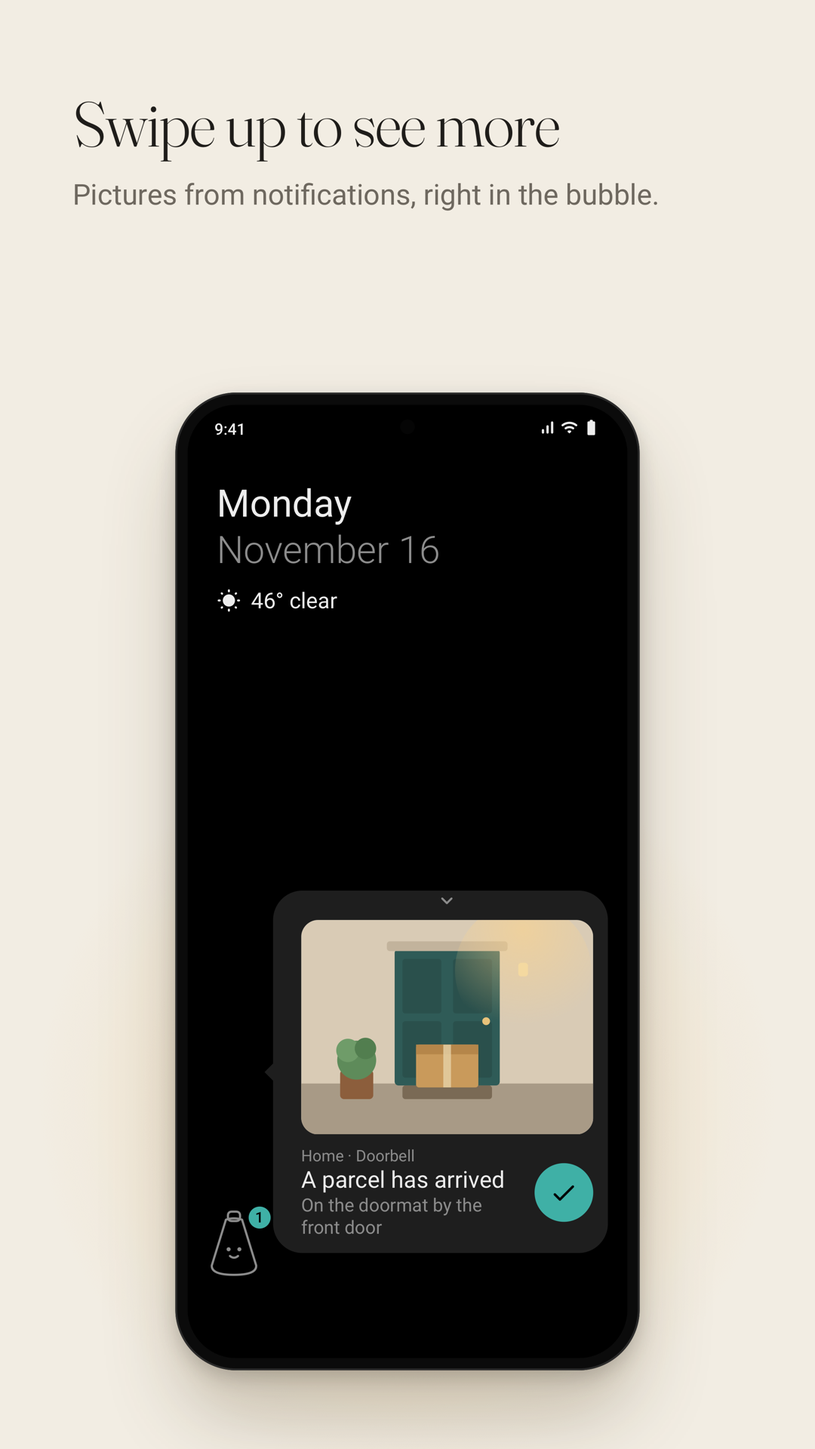
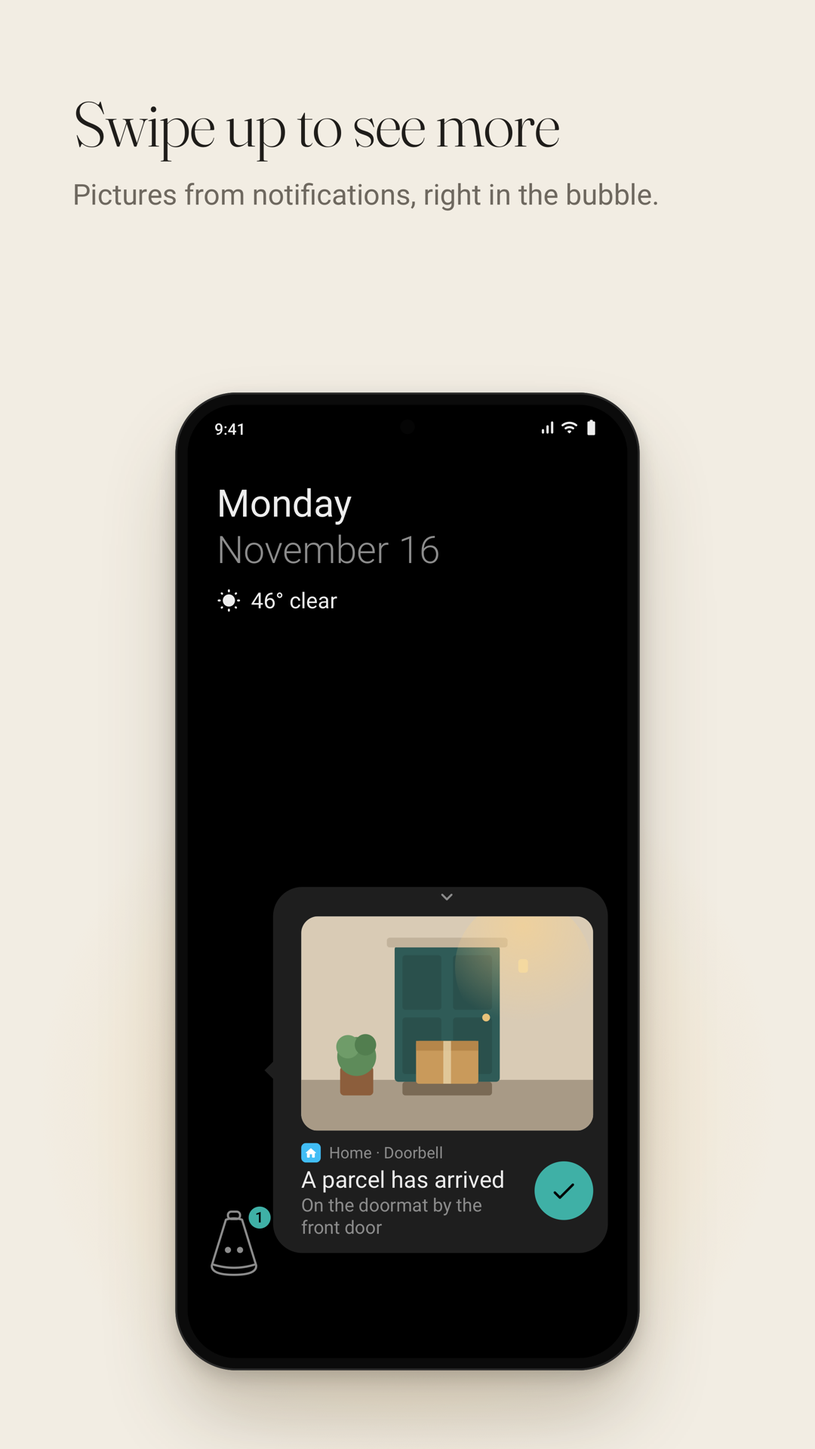
Immagini dello store aggiornate e tradotte, README leggibile da telefono
- Screenshot e grafica in primo piano anche in es, fr, de, pt
- Mascotte e fumetto come nell'app di oggi: occhi a puntini, firma con
  l'icona piccola dell'app e il suo nome, riga sotto il titolo
- README: immagini centrate sotto ogni sezione invece che affiancate,
  tabelle larghe diventate elenchi

diff --git a/store/src/store.html b/store/src/store.html
@@ -3,7 +3,7 @@
 <head>
 <meta charset="utf-8">
 <!-- Tutto il materiale del Play Store da una pagina sola: il frammento sceglie cosa disegnare.
-     #icon (512×512) · #feature-it / #feature-en (1024×500) · #shot-it-1 … #shot-en-7 (1080×1920)
+     #icon (512×512) · #feature-<lingua> (1024×500) · #shot-<lingua>-1 … 7 (it, en, es, fr, de, pt) (1080×1920)
      Le schermate riproducono l'interfaccia vera (colori, misure in dp, testi dell'app) con dati inventati. -->
 <link rel="preconnect" href="https://fonts.googleapis.com">
 <link href="https://fonts.googleapis.com/css2?family=Roboto:wght@300;400;500&family=Roboto+Mono:wght@400&family=Fraunces:opsz,wght@9..144,300;9..144,400&display=block" rel="stylesheet">
@@ -60,7 +60,9 @@
   .bubble:before { content: ''; position: absolute; left: -7px; top: 50%; margin-top: -9px; border-style: solid; border-width: 9px 9px 9px 0;
                    border-color: transparent var(--card) transparent transparent; }
   .bubble .col { flex: 1; min-width: 0; }
-  .lab { font-size: 13px; color: var(--usoft); white-space: nowrap; overflow: hidden; text-overflow: ellipsis; }
+  .lab { font-size: 13px; color: var(--usoft); white-space: nowrap; overflow: hidden; text-overflow: ellipsis; display: flex; align-items: center; margin-bottom: 2px; }
+  .aic { width: 16px; height: 16px; border-radius: 4px; display: inline-flex; align-items: center; justify-content: center; margin-right: 7px; color: #fff; flex: none; }
+  .aic .mi { font-size: 11px; }
   .ttl { font-size: 19px; line-height: 24px; }
   .sub { font-size: 15px; color: var(--usoft); }
   .round { width: 48px; height: 48px; border-radius: 24px; background: var(--uacc); color: var(--bg); display: flex; align-items: center; justify-content: center; flex: none; margin-left: 8px; }
@@ -163,11 +165,11 @@
     <!-- In Casa, sullo sfondo scuro, la sordina è disegnata a tratto -->
     <symbol id="line" viewBox="-40 -58 80 102">
       <g fill="none" stroke="currentColor" stroke-width="3.2" stroke-linejoin="round" stroke-linecap="round">
-        <path d="M-3,-54 L3,-54 Q9,-54 9,-48 L9,-46 Q9,-40 3,-40 L-3,-40 Q-9,-40 -9,-46 L-9,-48 Q-9,-54 -3,-54 Z"/>
+        <rect x="-9" y="-54" width="18" height="11" rx="5"/>
         <path d="M-12,-42 Q0,-46 12,-42 L33,26 Q34,40 0,40 Q-34,40 -33,26 Z"/>
-        <path d="M-6,12 Q0,17 6,12"/>
+        <path d="M-30,25 Q0,34 30,25"/>
       </g>
-      <g fill="currentColor"><circle cx="-8" cy="2" r="3"/><circle cx="8" cy="2" r="3"/></g>
+      <g fill="currentColor"><circle cx="-9" cy="3" r="4.6"/><circle cx="9" cy="3" r="4.6"/></g>
     </symbol>
   </defs>
 </svg>
@@ -224,6 +226,106 @@ const T = {
     promise: [['person_off', 'No account'], ['block', 'No ads'], ['visibility_off', 'No tracking'], ['code', 'Open source']],
     fSay: 'Nothing urgent until 1&nbsp;PM', fSmall: 'Sordina', fTag: "The phone that doesn't interrupt you.",
   },
+  es: {
+    day: 'Lunes', date: '16 de noviembre', weather: '8° despejado', today: 'Hoy', tomorrow: 'Mañana',
+    ev1: 'Reunión de proyecto', ev2: 'Comida con Julia', ev3: 'Dentista',
+    search: '¿Qué necesitas?', inMin: 'En 5 min', calendar: 'Calendario',
+    caps: [
+      ['El móvil que no te interrumpe', 'Una pantalla tranquila: solo lo que importa ahora.'],
+      ['Las notificaciones te esperan', 'Lo importante llega. Lo demás espera hasta que tú quieras.'],
+      ['Lo que necesitas, cuando lo necesitas', 'El código para copiar, la reunión a la que unirte: un toque.'],
+      ['Desliza para ver más', 'Las fotos de las notificaciones, en el bocadillo.'],
+      ['Dilo y Sordina lo hace', 'Escribe o habla: llamadas, mensajes, temporizadores, tu casa.'],
+      ['En el coche, solo lo esencial', 'Navegación, música y tu gente, sin apartar la vista de la carretera.'],
+      ['Todo se queda en tu móvil', 'Sordina no tiene servidores: lo que aprende se queda contigo.'],
+    ],
+    sordina: 'Sordina', people: 'Personas', groups: 'Grupos', work: 'Trabajo', shop: 'Compras y dinero', readAll: 'Todo leído',
+    p1: 'Julia', p1m: '¿Nos vemos a las 8 en el sitio de siempre?', p1m2: 'Yo llevo el vino 🍷', p2: 'Fútbol de los jueves', p2s: 'Marcos', p2m: '¿Quién trae el balón?',
+    w1: 'Resumen semanal', w1s: 'Outlook', w1m: 'Las tareas de la semana', w2: 'Canal del proyecto', w2s: 'Teams', w2m: 'Laura: he subido las diapositivas',
+    s1: 'Tu pedido está en camino', s1s: 'Mensajería', s1m: 'Entrega prevista mañana',
+    bank: 'Banco', code: 'código', copy: 'Copiar',
+    homeLab: 'Casa · Timbre', homeTtl: 'Ha llegado un paquete', homeSub: 'En el felpudo de la entrada',
+    typed: 'escribe a julia que ya llego', r1: 'Escribir a Julia', r1s: '«Ya llego» · mensaje', r2: 'Llamar a Julia', r2s: 'Móvil', r3: 'Temporizador de 10 minutos', r3s: 'Empieza ya, sin abrir el Reloj',
+    carScene: 'En el coche · solo pasan las llamadas', carNext: '9:30', carEv: 'Reunión de proyecto', mic: 'Toca y habla',
+    faces: ['Julia', 'Marcos', 'Mamá', 'Lucas'], playing: 'Reproduciendo', song: 'Olas lentas', artist: 'Marea',
+    promise: [['person_off', 'Sin cuenta'], ['block', 'Sin anuncios'], ['visibility_off', 'Sin rastreo'], ['code', 'Código abierto']],
+    fSay: 'Nada urgente hasta las&nbsp;13', fSmall: 'Sordina', fTag: 'El móvil que no te interrumpe.',
+  },
+  fr: {
+    day: 'Lundi', date: '16 novembre', weather: '8° dégagé', today: "Aujourd'hui", tomorrow: 'Demain',
+    ev1: 'Réunion de projet', ev2: 'Déjeuner avec Julie', ev3: 'Dentiste',
+    search: "De quoi avez-vous besoin ?", inMin: 'Dans 5 min', calendar: 'Agenda',
+    caps: [
+      ['Le téléphone qui ne vous interrompt pas', "Un accueil calme : seulement ce qui compte maintenant."],
+      ['Les notifications vous attendent', "L'important passe. Le reste attend que vous soyez prêt."],
+      ['Ce qu’il faut, quand il faut', 'Le code à copier, la réunion à rejoindre : un geste.'],
+      ['Glissez pour voir plus', 'Les photos des notifications, dans la bulle.'],
+      ['Dites-le, Sordina le fait', 'Écrivez ou parlez : appels, messages, minuteurs, la maison.'],
+      ["En voiture, l'essentiel", 'Navigation, musique et vos proches, les yeux sur la route.'],
+      ['Tout reste sur votre téléphone', "Sordina n'a pas de serveur : ce qu'il apprend reste chez vous."],
+    ],
+    sordina: 'Sordina', people: 'Personnes', groups: 'Groupes', work: 'Travail', shop: 'Achats et argent', readAll: 'Tout lu',
+    p1: 'Julie', p1m: 'On se voit à 20 h au même endroit ?', p1m2: "J'apporte le vin 🍷", p2: 'Foot du jeudi', p2s: 'Marc', p2m: 'Qui apporte le ballon ?',
+    w1: 'Résumé hebdomadaire', w1s: 'Outlook', w1m: 'Les tâches de la semaine', w2: 'Canal du projet', w2s: 'Teams', w2m: "Laura : j'ai mis les slides",
+    s1: 'Votre commande est en route', s1s: 'Livreur', s1m: 'Livraison prévue demain',
+    bank: 'Banque', code: 'code', copy: 'Copier',
+    homeLab: 'Maison · Sonnette', homeTtl: 'Un colis est arrivé', homeSub: "Sur le paillasson devant la porte",
+    typed: "écris à julie que j'arrive", r1: 'Écrire à Julie', r1s: '« J’arrive » · message', r2: 'Appeler Julie', r2s: 'Mobile', r3: 'Minuteur de 10 minutes', r3s: "Démarre tout de suite, sans ouvrir l'Horloge",
+    carScene: 'En voiture · seuls les appels passent', carNext: '9:30', carEv: 'Réunion de projet', mic: 'Touchez et parlez',
+    faces: ['Julie', 'Marc', 'Maman', 'Luc'], playing: 'En lecture', song: 'Vagues lentes', artist: 'Marea',
+    promise: [['person_off', 'Pas de compte'], ['block', 'Pas de pub'], ['visibility_off', 'Pas de pistage'], ['code', 'Open source']],
+    fSay: "Rien d'urgent avant&nbsp;13&nbsp;h", fSmall: 'Sordina', fTag: 'Le téléphone qui ne vous interrompt pas.',
+  },
+  de: {
+    day: 'Montag', date: '16. November', weather: '8° klar', today: 'Heute', tomorrow: 'Morgen',
+    ev1: 'Projektbesprechung', ev2: 'Mittagessen mit Julia', ev3: 'Zahnarzt',
+    search: 'Was brauchst du?', inMin: 'In 5 Min.', calendar: 'Kalender',
+    caps: [
+      ['Das Handy, das dich nicht unterbricht', 'Ein ruhiger Startbildschirm: nur, was gerade zählt.'],
+      ['Benachrichtigungen warten auf dich', 'Wichtiges kommt durch. Der Rest wartet, bis du bereit bist.'],
+      ['Was du brauchst, wenn du es brauchst', 'Den Code kopieren, dem Meeting beitreten: ein Tipp.'],
+      ['Nach oben wischen für mehr', 'Fotos aus Benachrichtigungen, direkt in der Sprechblase.'],
+      ['Sag es, Sordina macht es', 'Tippen oder sprechen: anrufen, schreiben, Timer, dein Zuhause.'],
+      ['Im Auto nur das Nötigste', 'Navigation, Musik und deine Leute, den Blick auf der Straße.'],
+      ['Alles bleibt auf deinem Handy', 'Sordina hat keine Server: Was es lernt, bleibt bei dir.'],
+    ],
+    sordina: 'Sordina', people: 'Menschen', groups: 'Gruppen', work: 'Arbeit', shop: 'Einkäufe und Geld', readAll: 'Alles gelesen',
+    p1: 'Julia', p1m: 'Sehen wir uns um 8 am üblichen Ort?', p1m2: 'Ich bringe den Wein mit 🍷', p2: 'Fußball am Donnerstag', p2s: 'Markus', p2m: 'Wer bringt den Ball mit?',
+    w1: 'Wochenübersicht', w1s: 'Outlook', w1m: 'Die Aufgaben der Woche', w2: 'Projektkanal', w2s: 'Teams', w2m: 'Laura: Folien sind hochgeladen',
+    s1: 'Deine Bestellung ist unterwegs', s1s: 'Paketdienst', s1m: 'Zustellung voraussichtlich morgen',
+    bank: 'Bank', code: 'Code', copy: 'Kopieren',
+    homeLab: 'Zuhause · Türklingel', homeTtl: 'Ein Paket ist angekommen', homeSub: 'Auf der Fußmatte vor der Tür',
+    typed: 'schreib julia ich bin gleich da', r1: 'Julia schreiben', r1s: '„Bin gleich da" · Nachricht', r2: 'Julia anrufen', r2s: 'Mobil', r3: 'Timer für 10 Minuten', r3s: 'Startet sofort, ohne die Uhr-App',
+    carScene: 'Im Auto · nur Anrufe kommen durch', carNext: '9:30', carEv: 'Projektbesprechung', mic: 'Tippen und sprechen',
+    faces: ['Julia', 'Markus', 'Mama', 'Lukas'], playing: 'Läuft gerade', song: 'Langsame Wellen', artist: 'Marea',
+    promise: [['person_off', 'Kein Konto'], ['block', 'Keine Werbung'], ['visibility_off', 'Kein Tracking'], ['code', 'Open Source']],
+    fSay: 'Nichts Dringendes bis 13&nbsp;Uhr', fSmall: 'Sordina', fTag: 'Das Handy, das dich nicht unterbricht.',
+  },
+  pt: {
+    day: 'Segunda-feira', date: '16 de novembro', weather: '8° céu limpo', today: 'Hoje', tomorrow: 'Amanhã',
+    ev1: 'Reunião do projeto', ev2: 'Almoço com a Júlia', ev3: 'Dentista',
+    search: 'Do que você precisa?', inMin: 'Em 5 min', calendar: 'Agenda',
+    caps: [
+      ['O celular que não te interrompe', 'Uma tela tranquila: só o que importa agora.'],
+      ['As notificações esperam você', 'O importante passa. O resto espera até você querer.'],
+      ['O que precisa, quando precisa', 'O código para copiar, a reunião para entrar: um toque.'],
+      ['Deslize para ver mais', 'As fotos das notificações, no próprio balão.'],
+      ['Falou, o Sordina faz', 'Escreva ou fale: ligações, mensagens, timers, sua casa.'],
+      ['No carro, só o essencial', 'Navegação, música e sua gente, sem tirar os olhos da estrada.'],
+      ['Tudo fica no seu celular', 'O Sordina não tem servidores: o que aprende fica com você.'],
+    ],
+    sordina: 'Sordina', people: 'Pessoas', groups: 'Grupos', work: 'Trabalho', shop: 'Compras e dinheiro', readAll: 'Tudo lido',
+    p1: 'Júlia', p1m: 'Nos vemos às 8 no lugar de sempre?', p1m2: 'Eu levo o vinho 🍷', p2: 'Futebol de quinta', p2s: 'Marcos', p2m: 'Quem leva a bola?',
+    w1: 'Resumo semanal', w1s: 'Outlook', w1m: 'As tarefas da semana', w2: 'Canal do projeto', w2s: 'Teams', w2m: 'Laura: subi os slides',
+    s1: 'Seu pedido está a caminho', s1s: 'Transportadora', s1m: 'Entrega prevista para amanhã',
+    bank: 'Banco', code: 'código', copy: 'Copiar',
+    homeLab: 'Casa · Campainha', homeTtl: 'Chegou uma encomenda', homeSub: 'No tapete em frente à porta',
+    typed: 'manda pra júlia que já vou', r1: 'Escrever para Júlia', r1s: '“Já vou” · mensagem', r2: 'Ligar para Júlia', r2s: 'Celular', r3: 'Timer de 10 minutos', r3s: 'Começa na hora, sem abrir o Relógio',
+    carScene: 'No carro · só passam as ligações', carNext: '9:30', carEv: 'Reunião do projeto', mic: 'Toque e fale',
+    faces: ['Júlia', 'Marcos', 'Mãe', 'Lucas'], playing: 'Tocando agora', song: 'Ondas lentas', artist: 'Marea',
+    promise: [['person_off', 'Sem conta'], ['block', 'Sem anúncios'], ['visibility_off', 'Sem rastreamento'], ['code', 'Código aberto']],
+    fSay: 'Nada urgente até as&nbsp;13h', fSmall: 'Sordina', fTag: 'O celular que não te interrompe.',
+  },
 };
 const FACE = ['#E8A93A', '#9FD3BE', '#A8C5DA', '#F2A7A0', '#CFB194', '#B8A9D9'];
 
@@ -242,6 +344,8 @@ function homeTop(t, agenda = true) {
     <div class="dlabel">${t.tomorrow}</div>
     <div class="aline"><span class="t">8:30</span><span>${t.ev3}</span></div>` : ''}</div>`;
 }
+// La firma del fumetto, come nell'app: l'icona piccola dell'app e il suo nome, quieti, in testa
+const sig = (bg, ic, text) => `<div class="lab"><span class="aic" style="background:${bg}">${mi(ic)}</span>${text}</div>`;
 const searchBar = (t) => `<div class="search">${t.search}${mi('mic')}</div>`;
 
 // La foto del campanello: un'illustrazione, niente foto vere
@@ -269,7 +373,7 @@ function shot(lang, n) {
   let inner = '';
   if (n === 1) {
     inner = phone('light', `${homeTop(t)}<div class="grow"></div>${searchBar(t)}
-      <div class="zone">${mascot(3)}<div class="bubble"><div class="col"><div class="lab">${t.inMin} · ${t.calendar}</div><div class="ttl">${t.ev1}</div></div>
+      <div class="zone">${mascot(3)}<div class="bubble"><div class="col">${sig('#1C6FD1', 'event', t.calendar + ' · 1/3')}<div class="ttl">${t.ev1}</div><div class="sub">${t.inMin}</div></div>
       <div class="round">${mi('videocam')}</div></div></div>`);
   } else if (n === 2) {
     const blk = (init, col, appCol, appIc, title, cnt, who, prev, time) => `<div class="block"><div class="brow">
@@ -292,7 +396,7 @@ function shot(lang, n) {
       <div class="readall">${t.readAll}</div>`);
   } else if (n === 3) {
     inner = phone('dark', `${homeTop(t)}<div class="grow"></div>${searchBar(t)}
-      <div class="zone">${mascot(2)}<div class="bubble"><div class="col"><div class="lab">${t.bank} · ${t.code} · 1/2</div><div class="code">482 913</div>
+      <div class="zone">${mascot(2)}<div class="bubble"><div class="col">${sig('#2E7D5B', 'account_balance', t.bank + ' · 1/2')}<div class="code">482 913</div>
       <div class="track"><i style="width:72%"></i></div></div><div class="round">${mi('content_copy')}</div></div></div>`);
   } else if (n === 4) {
     inner = phone('dark', `${homeTop(t, false)}<div class="grow"></div>
@@ -301,7 +405,7 @@ function shot(lang, n) {
           <div class="bubble" style="display:block;padding-top:4px;margin-left:0">
             <div class="handle">${mi('keyboard_arrow_down')}</div>
             <div style="margin:2px 0 10px">${doorPic()}</div>
-            <div style="display:flex;align-items:center"><div class="col"><div class="lab">${t.homeLab}</div><div class="ttl">${t.homeTtl}</div><div class="sub">${t.homeSub}</div></div>
+            <div style="display:flex;align-items:center"><div class="col">${sig('#41BDF5', 'home', t.homeLab)}<div class="ttl">${t.homeTtl}</div><div class="sub">${t.homeSub}</div></div>
             <div class="round">${mi('check')}</div></div>
           </div></div></div>
       <div class="search" style="visibility:hidden"></div><div class="zone">${mascot(1)}</div>`);
@@ -320,7 +424,7 @@ function shot(lang, n) {
       <div class="grow"></div><div class="faces">${faces}</div>
       <div class="tiles">${tile('#2E8B57', 'navigation')}${tile('#D9534F', 'music_note')}${tile('#3E8ED0', 'home')}</div>
       <div class="micbar">${mi('mic')}${t.mic}</div>
-      <div class="zone" style="margin-top:8px">${mascot(0)}<div class="bubble"><div class="col"><div class="lab">${t.playing}</div><div class="ttl">${t.song}</div><div class="sub">${t.artist}</div></div>
+      <div class="zone" style="margin-top:8px">${mascot(0)}<div class="bubble"><div class="col">${sig('#D9534F', 'music_note', t.playing)}<div class="ttl">${t.song}</div><div class="sub">${t.artist}</div></div>
       <div class="round">${mi('pause')}</div><div class="round quiet" style="margin-left:6px">${mi('skip_next')}</div></div></div>`);
   } else if (n === 7) {
     return `<div class="shot"><div class="caption"><h1>${t.caps[i][0]}</h1><p>${t.caps[i][1]}</p></div>

diff --git a/README.md b/README.md
@@ -21,18 +21,11 @@ Your phone is built to keep you on it: a grid of colourful icons, red badges, an
 
 Sordina flips that. It starts from **what you came to do**, lets **what matters** through, and keeps **everything else quiet** until you're ready. No willpower needed, no "screen time" guilt trip: just a phone that stops interrupting.
 
-<table>
-<tr>
-<td width="50%" valign="top">
-
 **Before**
 - 40 icons asking for attention
 - every group chat buzzes in real time
 - you unlock to check the time, close it 20 minutes later
 - verification codes buried in the shade
-
-</td>
-<td width="50%" valign="top">
 
 **With Sordina**
 - date, weather, your next plan, one bar
@@ -40,13 +33,7 @@ Sordina flips that. It starts from **what you came to do**, lets **what matters*
 - you do the thing and the phone goes quiet
 - the code is right there, one tap to copy
 
-</td>
-</tr>
-</table>
-
 ---
-
-<img src="store/graphics/en/1.png" align="right" width="250" alt="Calm Home">
 
 ### 🏠 A Home that's actually calm
 
@@ -56,11 +43,9 @@ At the bottom lives a little brass mute (*sordina* is Italian for a trumpet mute
 
 Light, dark or automatic; solid, abstract or your own wallpaper, and text always stays readable.
 
-<br clear="right">
+<p align="center"><img src="store/graphics/en/1.png" width="300" alt="Calm Home"></p>
 
 ---
-
-<img src="store/graphics/en/2.png" align="left" width="250" alt="The Sordina page">
 
 ### 🔕 Notifications wait for you
 
@@ -78,11 +63,9 @@ The rest is held on the Sordina page, grouped by person, until *you* decide to l
 - **timed silence**: "mute for 45 minutes", "quiet until 3pm", then everything resumes
 - **pictures included**: the photo from the doorbell or the chat, right there
 
-<br clear="left">
+<p align="center"><img src="store/graphics/en/2.png" width="300" alt="The Sordina page"></p>
 
 ---
-
-<img src="store/graphics/en/3.png" align="right" width="250" alt="A verification code in the bubble">
 
 ### 💬 One thing at a time, ready to tap
 
@@ -95,11 +78,9 @@ The mascot's bubble hands you exactly what you need, when you need it:
 
 Swipe sideways for the next thing. Long-press for options. No list, no feed, no rabbit hole.
 
-<br clear="right">
+<p align="center"><img src="store/graphics/en/3.png" width="300" alt="A verification code in the bubble"></p>
 
 ---
-
-<img src="store/graphics/en/4.png" align="left" width="250" alt="A bubble expanded with a picture">
 
 ### 🖼 Swipe up to see more
 
@@ -107,11 +88,9 @@ When a notification carries a picture (the courier's photo, the doorbell camera,
 
 You see what you need without opening a single app.
 
-<br clear="left">
+<p align="center"><img src="store/graphics/en/4.png" width="300" alt="A bubble expanded with a picture"></p>
 
 ---
-
-<img src="store/graphics/en/5.png" align="right" width="250" alt="Say it, and it's done">
 
 ### ✨ Say it, and it's done
 
@@ -126,11 +105,9 @@ Sordina does the right thing: places the call, writes the message in WhatsApp, T
 - **voice stays on the phone**: Android's on-device recogniser (Android 12+); if your language isn't downloaded yet, Sordina asks Android to fetch it (Android 13+)
 - **it learns from you**: corrections, nicknames ("mum"), the app you prefer for each person
 
-<br clear="right">
+<p align="center"><img src="store/graphics/en/5.png" width="300" alt="Say it, and it's done"></p>
 
 ---
-
-<img src="store/graphics/en/6.png" align="left" width="250" alt="Car mode">
 
 ### 🚗 Home changes with you
 
@@ -140,7 +117,7 @@ Sordina does the right thing: places the call, writes the message in WhatsApp, T
 
 Each mode switches on by itself and can be turned off whenever you like.
 
-<br clear="left">
+<p align="center"><img src="store/graphics/en/6.png" width="300" alt="Car mode"></p>
 
 ---
 
@@ -169,41 +146,35 @@ Phones stay in portrait. On tablets Sordina rotates with the screen and keeps a 
 
 ---
 
-<img src="store/graphics/en/7.png" align="right" width="250" alt="Everything stays on your phone">
-
 ## 🔒 Everything stays on your phone
 
 Sordina has no servers, no account and no analytics. Notifications, contacts, calendar, app usage and everything it learns are processed and stored on the phone. The only things that leave it:
 
-| What | Where | When |
-|---|---|---|
-| Location rounded to ~10 km | [Open-Meteo](https://open-meteo.com) | Weather on, at most once an hour |
-| Your commands | **Your own** Home Assistant | Only if you connect it |
-| A daily copy of settings and what Sordina learned (no notifications, no token) | Your Google account, via Android backup | If backup is on |
-| Device model, Android version, languages, error codes | Google, via ML Kit | Diagnostics of the on-device text and QR libraries |
+- **Location rounded to ~10 km** → [Open-Meteo](https://open-meteo.com) · Weather on, at most once an hour
+- **Your commands** → **Your own** Home Assistant · Only if you connect it
+- **A daily copy of settings and what Sordina learned (no notifications, no token)** → Your Google account, via Android backup · If backup is on
+- **Device model, Android version, languages, error codes** → Google, via ML Kit · Diagnostics of the on-device text and QR libraries
 
 Full policy (IT/EN): [store/privacy](store/privacy/index.html).
 
-<br clear="right">
+<p align="center"><img src="store/graphics/en/7.png" width="300" alt="Everything stays on your phone"></p>
 
 ## 🔑 Permissions
 
 All optional except notification access, which is the point of the app.
 
-| Permission | Why |
-|---|---|
-| Notification access | Decide what gets through and what waits; codes, meetings and pictures in the bubble |
-| Usage access | Ordering apps in search and the evening recap |
-| Do Not Disturb access | Timed silence: turns Do Not Disturb on and off |
-| Notifications | The quiet status card and alerts from Sordina itself |
-| Contacts | "Call Anna", "text Anna"; important people; the people shown in the car |
-| Calendar | Your next plans; "football tomorrow at 5pm" written straight in |
-| Approximate location (while in use) | Weather only: no GPS, no Wi-Fi names |
-| Microphone | Voice, with Android's on-device recogniser (Android 12+) |
-| Phone | "Call Anna" places the call after your tap |
-| Accessibility service | Instant brake (and the braked app's website, reading only the address bar), double-tap to lock, typing a phrase into Home Assistant Assist or Signal. Explained in the app, with explicit consent, before Android's settings open |
-| Battery optimisation exemption | So Android doesn't put the notification sorting to sleep |
-| Start at boot | Resume timed silence and held notifications after a restart |
+- **Notification access**: Decide what gets through and what waits; codes, meetings and pictures in the bubble
+- **Usage access**: Ordering apps in search and the evening recap
+- **Do Not Disturb access**: Timed silence: turns Do Not Disturb on and off
+- **Notifications**: The quiet status card and alerts from Sordina itself
+- **Contacts**: "Call Anna", "text Anna"; important people; the people shown in the car
+- **Calendar**: Your next plans; "football tomorrow at 5pm" written straight in
+- **Approximate location (while in use)**: Weather only: no GPS, no Wi-Fi names
+- **Microphone**: Voice, with Android's on-device recogniser (Android 12+)
+- **Phone**: "Call Anna" places the call after your tap
+- **Accessibility service**: Instant brake (and the braked app's website, reading only the address bar), double-tap to lock, typing a phrase into Home Assistant Assist or Signal. Explained in the app, with explicit consent, before Android's settings open
+- **Battery optimisation exemption**: So Android doesn't put the notification sorting to sleep
+- **Start at boot**: Resume timed silence and held notifications after a restart
 
 ## 🛠 Build
 
@@ -227,16 +198,14 @@ signing/release.sh   # → app/build/outputs/bundle/release/app-release.aab
 
 ## 🗂 Repository
 
-| Path | What's there |
-|---|---|
-| `app/src/main/java/app/sordina/data` | Intents, rules, cards, calendar, people, weather, Home Assistant, the on-device learning (`brain/`); languages in `Lingue.kt` (it, en, es, fr, de, pt) and `LingueAltre.kt` (one data pack per other language) |
-| `app/src/main/java/app/sordina/service` | Notification listener, accessibility service, brake, scheduling |
-| `app/src/main/java/app/sordina/ui` | Compose screens: Home, bubble, Sordina page, search, settings, onboarding |
-| `app/src/main/res/values-*` | The 27 translations |
-| `app/src/test` | Unit tests (dates, commands in every language, rules, home safety, screen time…) |
-| `docs/` | Concept and UX notes (Italian) |
-| `store/` | Play Store texts (it, en, es, fr, de, pt), graphics (rendered from `store/src/store.html`), privacy policy, Play Console notes |
-| `signing/` | Password-derived upload key |
+- `app/src/main/java/app/sordina/data`: Intents, rules, cards, calendar, people, weather, Home Assistant, the on-device learning (`brain/`); languages in `Lingue.kt` (it, en, es, fr, de, pt) and `LingueAltre.kt` (one data pack per other language)
+- `app/src/main/java/app/sordina/service`: Notification listener, accessibility service, brake, scheduling
+- `app/src/main/java/app/sordina/ui`: Compose screens: Home, bubble, Sordina page, search, settings, onboarding
+- `app/src/main/res/values-*`: The 27 translations
+- `app/src/test`: Unit tests (dates, commands in every language, rules, home safety, screen time…)
+- `docs/`: Concept and UX notes (Italian)
+- `store/`: Play Store texts (it, en, es, fr, de, pt), graphics (rendered from `store/src/store.html`), privacy policy, Play Console notes
+- `signing/`: Password-derived upload key
 
 ## 🤝 Contributing
 
